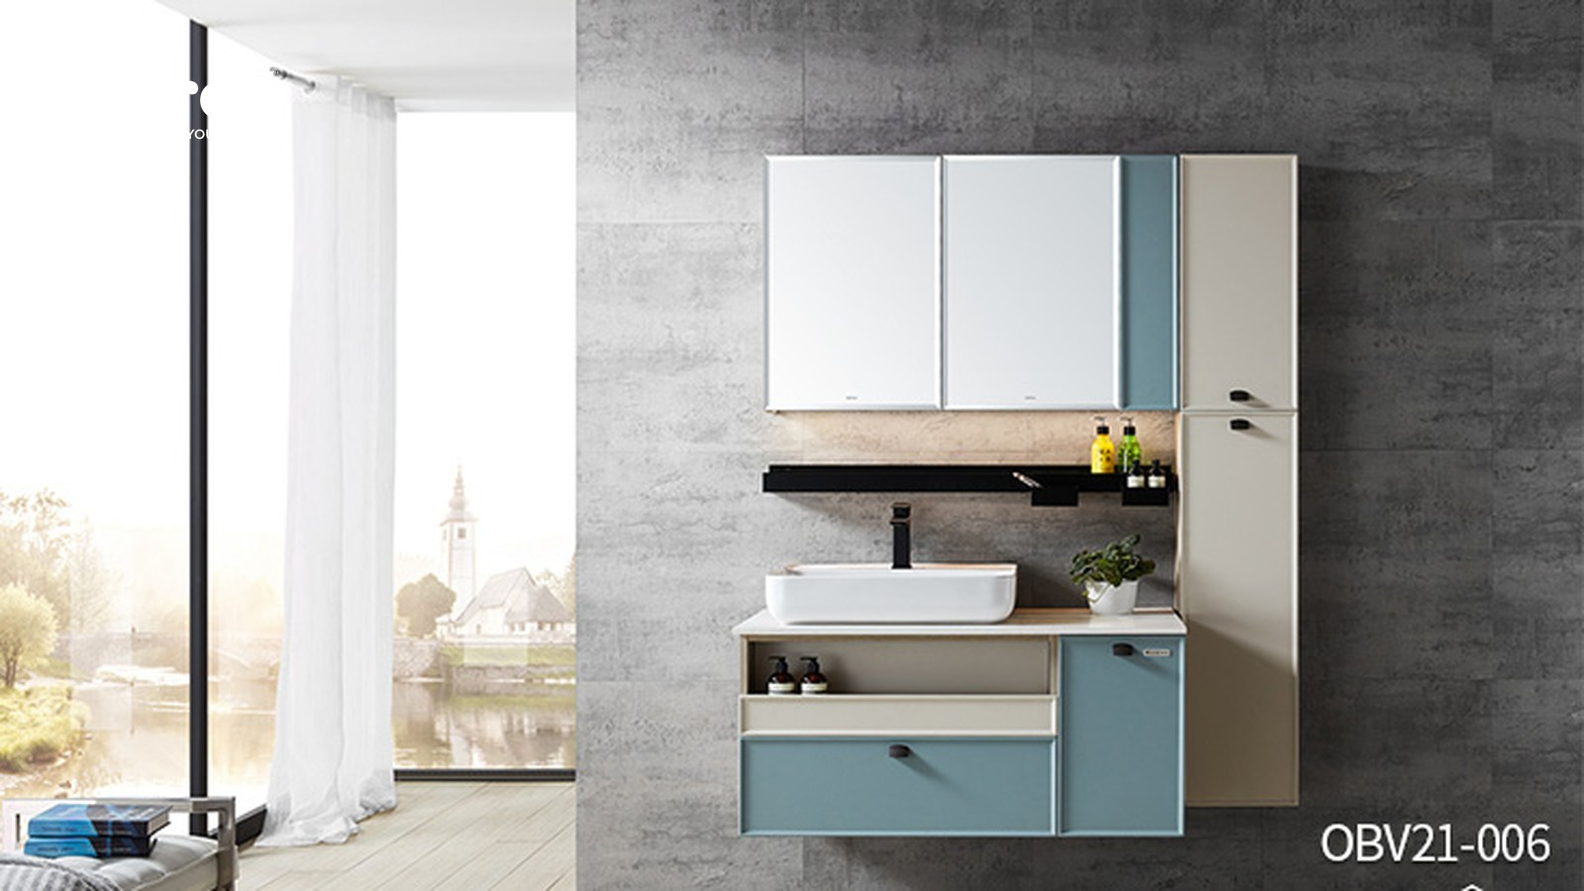
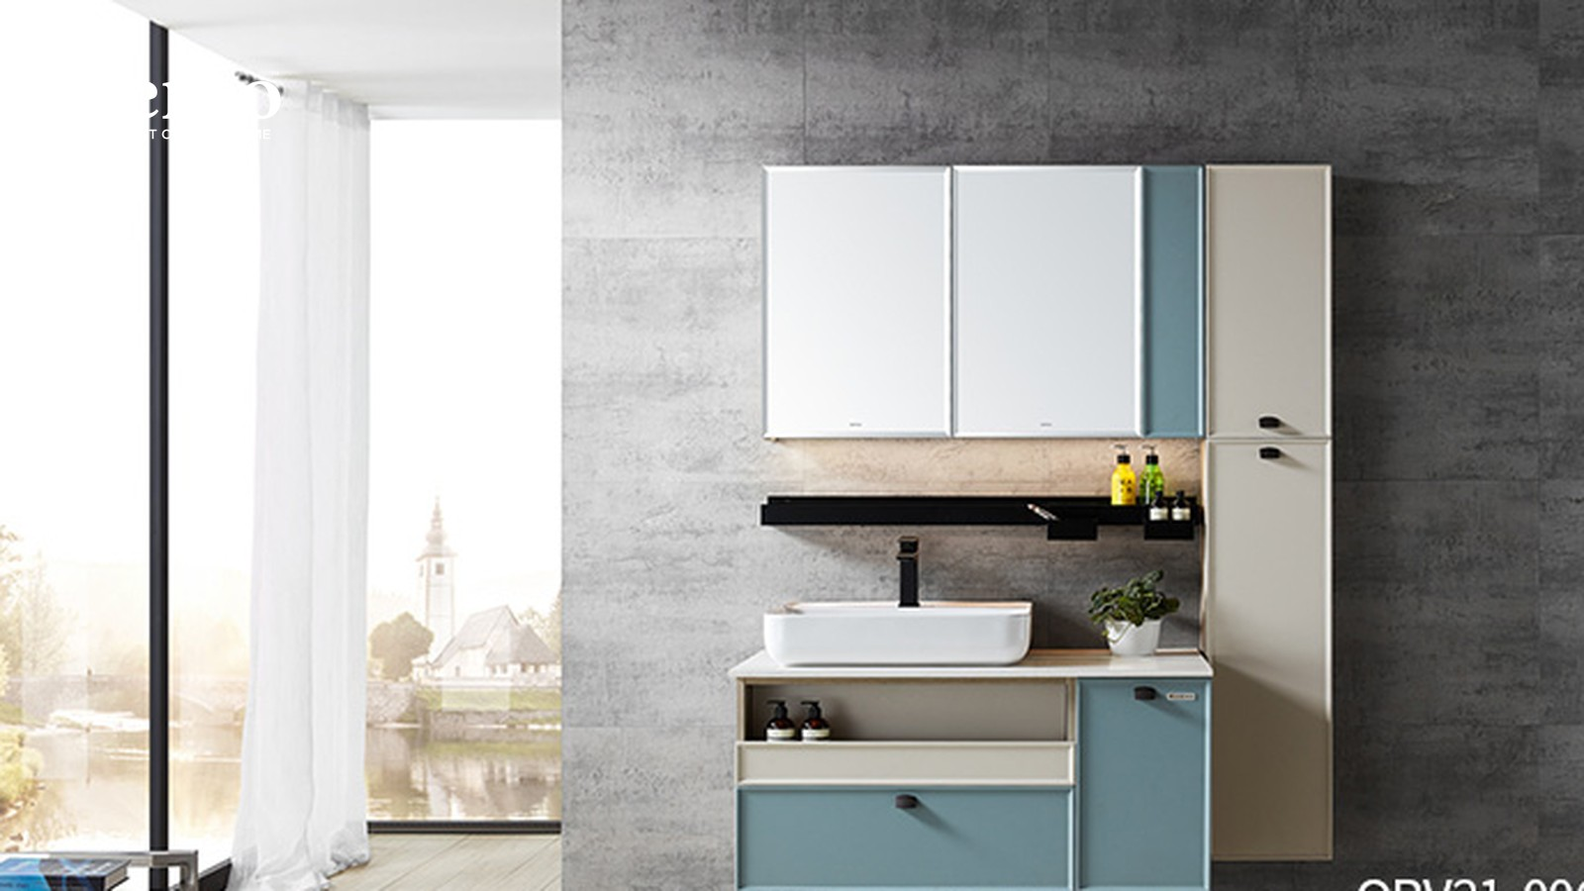
Watermark audit fixes: remove 6 double-stamped angle images, restore 1 missing mark, strip 2 supplier leaks
Full-site audit (341 images, every lockup measured + reviewed by eye) found:
- 6 alternate-angle images were DOUBLE-STAMPED (two overlapping lockups, the second oversized and glowed). Cause: those Oppolia sibling renders already carried a Berco mark and my clean-check missed it. Removed rather than stamped over, per the standard.
- bathroom-marble-vanity-tub had NO watermark at all (live on 21 pages) - re-derived from its clean source and stamped.
- bathroom-wood-mirror-cabinet carried an un-stripped supplier code OBV21-006 - re-derived with a deeper bottom crop.
- teal-vanity -v5 angle had the supplier wordmark legible in the mirror - removed.
Verified after: all 80 remaining angle images carry a single crisp lockup; 0 missing/orphaned refs.

diff --git a/app/collections/data.js b/app/collections/data.js
@@ -73,10 +73,10 @@ export const CATS = {
       { src: 'glass-door-wardrobe-suite-philippines.jpg', alt: 'Bedroom wardrobe run behind reeded-glass sliding doors framed in warm metal — Berco design reference', cap: 'Reeded-glass wardrobe', slug: 'reeded-glass-wardrobe-suite', title: 'Reeded-Glass Wardrobe Suite', blurb: 'A bedroom wardrobe run behind reeded-glass sliding doors, framed in warm metal. The glass softens what sits inside while keeping everything easy to find, and the fronts stay flush to the wall so the room reads calm and uncluttered.' },
       { src: 'open-walk-in-island-modern-philippines.jpg', alt: 'Open walk-in planned around a central drawer island with hanging, shelving and glass-front cabinets on the walls — Berco design reference', cap: 'Open walk-in & island', slug: 'open-walk-in-drawer-island', title: 'Open Walk-In with Drawer Island', blurb: 'An open walk-in planned around a central drawer island, with hanging, shelving and glass-front cabinets running the walls. Everything stays visible and within reach, and the mix of pale cabinetry and darker display bays gives the room depth.' },
       { src: 'grey-marble-dressing-room-philippines.jpg', alt: 'Darker grey dressing room with a marble feature wall, round mirror and a low bench — Berco design reference', cap: 'Grey & marble dressing room', slug: 'grey-dressing-room-marble-feature', title: 'Grey Dressing Room with Marble Feature', blurb: 'A darker dressing room in grey with a marble feature wall and a round mirror. Full-height fronts stay handleless and quiet, and a low bench gives you somewhere to sit while you dress. A calm, grown-up scheme for a main suite.' },
-      { src: 'fitted-wardrobe-wall-mural-philippines.jpg', alt: 'Fitted wardrobe wall in warm neutrals with glass-front bays over a landscape-mural back panel — Berco design reference', cap: 'Fitted wall, display bays', slug: 'fitted-wardrobe-wall-display-bays', title: 'Fitted Wardrobe Wall with Display Bays', blurb: 'A fitted wardrobe wall in warm neutrals, with a run of glass-front bays over a patterned back panel. Open hanging and drawers sit behind glass so the display stays tidy, and integrated light keeps each bay easy to read.', angles: ['fitted-wardrobe-wall-mural-v2-philippines.jpg'] },
-      { src: 'grey-wardrobe-run-dressing-philippines.jpg', alt: 'Long grey wardrobe run with closed fronts and a glass-door hanging section, and a dressing counter at one end — Berco design reference', cap: 'Grey run & dressing', slug: 'grey-wardrobe-run-dressing-end', title: 'Grey Wardrobe Run with Dressing End', blurb: 'A long grey wardrobe run with a mix of closed fronts and a glass-door hanging section, planned wall-to-wall. A dressing counter and mirror sit at one end, and the muted palette keeps a big run of storage feeling quiet.', angles: ['grey-wardrobe-run-dressing-v2-philippines.jpg'] },
-      { src: 'white-walk-in-hanging-philippines.jpg', alt: 'Bright warm-white walk-in with open hanging, shelving and drawers arranged around the room — Berco design reference', cap: 'White walk-in', slug: 'white-walk-in-open-hanging', title: 'White Walk-In with Open Hanging', blurb: 'A bright walk-in in warm white, with open hanging, shelving and drawers arranged around the room. Slim handleless fronts and a soft, even light keep it calm, and a low stool gives you room to dress without crowding the space.', angles: ['white-walk-in-hanging-v2-philippines.jpg'] },
-      { src: 'warm-walk-in-mirror-philippines.jpg', alt: 'Warm-toned walk-in with a full-height mirror and a mix of open and closed storage, doubling as a dressing area — Berco design reference', cap: 'Warm walk-in & mirror', slug: 'warm-walk-in-full-height-mirror', title: 'Warm Walk-In with Full-Height Mirror', blurb: 'A warm-toned walk-in with a full-height mirror and a mix of open and closed storage. Pale cabinetry and a soft rug keep the room gentle, with a bench and desk that let it double as a quiet dressing area.', angles: ['warm-walk-in-mirror-v3-philippines.jpg', 'warm-walk-in-mirror-v4-philippines.jpg', 'warm-walk-in-mirror-v5-philippines.jpg'] },
+      { src: 'fitted-wardrobe-wall-mural-philippines.jpg', alt: 'Fitted wardrobe wall in warm neutrals with glass-front bays over a landscape-mural back panel — Berco design reference', cap: 'Fitted wall, display bays', slug: 'fitted-wardrobe-wall-display-bays', title: 'Fitted Wardrobe Wall with Display Bays', blurb: 'A fitted wardrobe wall in warm neutrals, with a run of glass-front bays over a patterned back panel. Open hanging and drawers sit behind glass so the display stays tidy, and integrated light keeps each bay easy to read.' },
+      { src: 'grey-wardrobe-run-dressing-philippines.jpg', alt: 'Long grey wardrobe run with closed fronts and a glass-door hanging section, and a dressing counter at one end — Berco design reference', cap: 'Grey run & dressing', slug: 'grey-wardrobe-run-dressing-end', title: 'Grey Wardrobe Run with Dressing End', blurb: 'A long grey wardrobe run with a mix of closed fronts and a glass-door hanging section, planned wall-to-wall. A dressing counter and mirror sit at one end, and the muted palette keeps a big run of storage feeling quiet.' },
+      { src: 'white-walk-in-hanging-philippines.jpg', alt: 'Bright warm-white walk-in with open hanging, shelving and drawers arranged around the room — Berco design reference', cap: 'White walk-in', slug: 'white-walk-in-open-hanging', title: 'White Walk-In with Open Hanging', blurb: 'A bright walk-in in warm white, with open hanging, shelving and drawers arranged around the room. Slim handleless fronts and a soft, even light keep it calm, and a low stool gives you room to dress without crowding the space.' },
+      { src: 'warm-walk-in-mirror-philippines.jpg', alt: 'Warm-toned walk-in with a full-height mirror and a mix of open and closed storage, doubling as a dressing area — Berco design reference', cap: 'Warm walk-in & mirror', slug: 'warm-walk-in-full-height-mirror', title: 'Warm Walk-In with Full-Height Mirror', blurb: 'A warm-toned walk-in with a full-height mirror and a mix of open and closed storage. Pale cabinetry and a soft rug keep the room gentle, with a bench and desk that let it double as a quiet dressing area.', angles: ['warm-walk-in-mirror-v3-philippines.jpg', 'warm-walk-in-mirror-v4-philippines.jpg'] },
     ],
   },
   living: {
@@ -140,7 +140,7 @@ export const CATS = {
       { src: 'modern-minimalist-red-and-beige-bedroom-philippines.jpg', alt: 'Bedroom design reference with a terracotta leather headboard facing a corner run of open black display shelving, glass-fronted bays and a fluted dark timber panel — Berco design reference.', cap: 'Display corner', slug: 'terracotta-headboard-with-corner-display-shelving', title: 'Terracotta Headboard, Corner Display Shelving', blurb: 'Storage doubles as display here: open black cubbies, glass-fronted bays, and a slim desk return worked into one corner, framed by a fluted dark timber panel. The terracotta headboard and round bedside keep the sleeping half soft. A reference for bedrooms that need a working corner without letting it read as an office.', angles: ['modern-minimalist-red-and-beige-bedroom-v2-philippines.jpg'] },
       { src: 'monica-green-bedroom-design-philippines.jpg', alt: 'Bedroom design reference where a grid of upholstered cream wall panels sits against a deep green wall, with fluted dark bedside cabinets and a window bench with drawers — Berco design reference.', cap: 'Panelled headboard wall', slug: 'panelled-headboard-wall-in-deep-green', title: 'Panelled Headboard Wall in Deep Green', blurb: 'The headboard wall is the cabinetry: large upholstered panels set in a grid, running past the bed and stopping against a deep green wall. A window bench with drawers picks up storage at the side. A reference for rooms where the wall itself carries the design, with fluted bedside cabinets doing the rest.', angles: ['monica-green-bedroom-design-v2-philippines.jpg'] },
       { src: 'minimalist-white-and-wood-small-bedroom-desi-philippines.jpg', alt: 'Small bedroom design reference with a light oak dressing counter turning the corner beside a mirror, a floating bedside shelf and a wood headboard band — Berco design reference.', cap: 'Corner dressing counter', slug: 'compact-bedroom-with-corner-dressing-counter', title: 'Compact Bedroom With Corner Dressing Counter', blurb: 'A small room planned properly. The dressing counter turns the corner, carries a mirror and a shallow drawer, then stops where the bed begins; a floating shelf takes the other side. Light oak and off-white keep the walls open. A reference for compact bedrooms where every surface has to earn its width.' },
-      { src: 'lanxu-retro-oriental-walnut-and-white-bedroo-philippines.jpg', alt: 'Bedroom design reference with a full-height oak wardrobe run framed by walnut uprights, a slim desk shelf under the window and a tall cream cabinet bank — Berco design reference.', cap: 'Wardrobe run', slug: 'walnut-framed-wardrobe-wall-and-window-desk', title: 'Walnut-Framed Wardrobe Wall and Window Desk', blurb: 'Warm oak panels frame a full-height wardrobe run along one wall, while a slim desk shelf sits under the window and continues into a tall cream cabinet bank. Walnut uprights break the length so it reads as joinery rather than a wall of doors. A reference for long bedrooms that need storage at both ends.', angles: ['lanxu-retro-oriental-walnut-and-white-bedroo-v2-philippines.jpg'] },
+      { src: 'lanxu-retro-oriental-walnut-and-white-bedroo-philippines.jpg', alt: 'Bedroom design reference with a full-height oak wardrobe run framed by walnut uprights, a slim desk shelf under the window and a tall cream cabinet bank — Berco design reference.', cap: 'Wardrobe run', slug: 'walnut-framed-wardrobe-wall-and-window-desk', title: 'Walnut-Framed Wardrobe Wall and Window Desk', blurb: 'Warm oak panels frame a full-height wardrobe run along one wall, while a slim desk shelf sits under the window and continues into a tall cream cabinet bank. Walnut uprights break the length so it reads as joinery rather than a wall of doors. A reference for long bedrooms that need storage at both ends.' },
       { src: 'como-series-modern-beige-and-walnut-bedroom-philippines.jpg', alt: 'Bedroom design reference showing a wide upholstered panel wall behind a dark leather bed, matching stone-topped floating bedsides and a ribbed timber valance above — Berco design reference.', cap: 'Measured symmetry', slug: 'symmetrical-master-panelled-headboard-wall', title: 'Symmetrical Master With Panelled Headboard', blurb: 'Everything here is measured from the centre line: a wide upholstered panel wall behind the bed, matching stone-topped floating bedsides, and a ribbed timber valance washing light down the panels. A cushioned window seat holds the side wall. A reference for master bedrooms where panel joints and reveal lines are set before installation.' },
       { src: 'minimalist-white-small-bedroom-design-ob23-a-philippines.jpg', alt: 'Small bedroom design reference with a white full-height wardrobe opened at one bay for hanging and drawers, floating bedside shelves and a wood slat headboard band — Berco design reference.', cap: 'Floating bedsides', slug: 'small-bedroom-wardrobe-and-floating-bedsides', title: 'Small Bedroom Wardrobe and Floating Bedsides', blurb: 'A white wardrobe run with one bay opened up, hanging space above and drawers below, so daily items stay reachable without a door in the way. Floating bedside shelves keep the floor clear on both sides, and a wood slat band gives the bed its headboard. A reference for small rooms that still need real storage.' },
       { src: 'modern-bedroom-with-home-office-ob23-villa01-philippines.jpg', alt: 'Bedroom design reference with a lit open bookshelf run over closed base cabinets on a raised timber platform, beside a panelled headboard wall and full-height wardrobe — Berco design reference.', cap: 'Library wall', slug: 'bedroom-library-wall-and-study-platform', title: 'Bedroom Library Wall and Study Platform', blurb: 'One wall carries the library: lit open shelves over closed base cabinets, set on a raised timber platform beside the sleeping area. The bed sits against a panelled headboard wall with concealed cove lighting, and a full-height wardrobe closes the corner. A reference for bedrooms asked to hold reading, working and storage in one plan.' },
@@ -173,7 +173,7 @@ export const CATS = {
       { src: 'bathroom-wood-mirror-cabinet-philippines.jpg', alt: 'Bathroom vanity in wood tones with a mirror cabinet and a garden view — Berco design reference', cap: 'Wood & mirror cabinet', slug: 'two-tone-vanity-mirror-cabinet', title: 'Two-Tone Vanity with Mirror Cabinet', blurb: 'A teal-and-cream floating vanity carries a vessel basin below a matching mirror cabinet, with a tall storage unit alongside for extra capacity. A black open shelf adds a spot for daily bottles. Set against a concrete-look wall with a garden view, this reference keeps colour and storage in balance.' },
       { src: 'bathroom-grey-vanity-brass-philippines.jpg', alt: 'Grey wall-mounted vanity with a mirror cabinet and a brass pendant by the window — Berco design reference', cap: 'Grey & brass', slug: 'grey-vanity-brass-pendants', title: 'Grey Vanity with Mirror Cabinet and Brass Pendants', blurb: 'A warm grey floating vanity keeps things simple, with two doors and an integrated basin below a matching mirror cabinet. Brass linear pendants and a garden window add light and warmth. A pared-back reference like this suits smaller bathrooms where clean lines and moisture-ready finishes matter most.' },
       { src: 'bathroom-marble-vanity-tub-mirror-philippines.jpg', alt: 'Bright marble bathroom with a floating vanity, oval mirror and a freestanding tub by the window — Berco design reference', cap: 'Marble, vanity & tub', slug: 'bronze-vanity-oval-mirror-tub', title: 'Bronze Vanity with Oval Mirror and Tub', blurb: 'A bronze floating vanity with a vessel basin and open lower niche sits beneath an oval backlit mirror, framed by pale marble. A reeded glass partition opens to a freestanding tub and garden view. This reference shows how a compact vanity and a bathing zone can share one calm, light-filled space.' },
-      { src: 'wall-hung-vanity-in-teal-blue-modern-style-o-philippines.jpg', alt: 'A slim stone basin ledge with a vessel bowl above a deep teal drawer console, set between a round lit mirror and a slim wall cabinet — Berco design reference.', cap: 'Teal console vanity', slug: 'teal-console-stone-basin-ledge', title: 'Teal Console And Stone Basin Ledge', blurb: 'Two levels share the work here. A slim stone ledge carries the vessel basin and keeps the wash zone visually light, while the teal console below takes the bulk storage a bathroom actually accumulates. The round lit mirror and the slim wall cabinet fill the wall without crowding it. Splitting storage this way is a layout decision, made before anything is built.', angles: ['wall-hung-vanity-in-teal-blue-modern-style-o-v2-philippines.jpg', 'wall-hung-vanity-in-teal-blue-modern-style-o-v3-philippines.jpg', 'wall-hung-vanity-in-teal-blue-modern-style-o-v4-philippines.jpg', 'wall-hung-vanity-in-teal-blue-modern-style-o-v5-philippines.jpg'] },
+      { src: 'wall-hung-vanity-in-teal-blue-modern-style-o-philippines.jpg', alt: 'A slim stone basin ledge with a vessel bowl above a deep teal drawer console, set between a round lit mirror and a slim wall cabinet — Berco design reference.', cap: 'Teal console vanity', slug: 'teal-console-stone-basin-ledge', title: 'Teal Console And Stone Basin Ledge', blurb: 'Two levels share the work here. A slim stone ledge carries the vessel basin and keeps the wash zone visually light, while the teal console below takes the bulk storage a bathroom actually accumulates. The round lit mirror and the slim wall cabinet fill the wall without crowding it. Splitting storage this way is a layout decision, made before anything is built.', angles: ['wall-hung-vanity-in-teal-blue-modern-style-o-v2-philippines.jpg', 'wall-hung-vanity-in-teal-blue-modern-style-o-v3-philippines.jpg', 'wall-hung-vanity-in-teal-blue-modern-style-o-v4-philippines.jpg'] },
       { src: 'modern-bathroom-vanity-with-toilet-cabinets-philippines.jpg', alt: 'A taupe wall-hung vanity with a dark stone top and a lit open niche beneath, under an oval backlit mirror on a marble wall — Berco design reference.', cap: 'Wall-hung, lit niche', slug: 'taupe-wall-hung-vanity-lit-niche', title: 'Taupe Wall-Hung Vanity With Lit Niche', blurb: 'The vanity hangs clear of the floor, so the tiling runs through underneath and the room reads wider. Closed drawers keep the clutter out of sight, and the lit niche below holds the bottles and towels reached for every day. A dark stone top grounds the pale wall; the oval mirror keeps the lines soft.', angles: ['modern-bathroom-vanity-with-toilet-cabinets-v2-philippines.jpg', 'modern-bathroom-vanity-with-toilet-cabinets-v3-philippines.jpg', 'modern-bathroom-vanity-with-toilet-cabinets-v4-philippines.jpg'] },
       { src: 'scale-pattern-brown-bathroom-vanity-blwy2300-philippines.jpg', alt: 'A dark textured wall-hung vanity with copper handle rails and a marble-look top, paired with grey wall cabinets and open shelving — Berco design reference.', cap: 'Texture and copper', slug: 'textured-brown-vanity-copper-rails', title: 'Textured Brown Vanity With Copper Rails', blurb: 'Texture carries this one. The patterned brown fronts catch light where a flat finish would go dead, and slim copper rails run the full width in place of handles. Above the basin, closed doors and open shelves are split deliberately, so daily items stay reachable and the rest stays behind a door.', angles: ['scale-pattern-brown-bathroom-vanity-blwy2300-v2-philippines.jpg', 'scale-pattern-brown-bathroom-vanity-blwy2300-v3-philippines.jpg'] },
       { src: 'urban-style-white-and-black-bathroom-cabinet-philippines.jpg', alt: 'A white framed-panel vanity with a black stone top and black knobs, beside a tall lit open shelving column in a marble bathroom — Berco design reference.', cap: 'Shaker and stone', slug: 'white-shaker-vanity-black-stone-top', title: 'White Shaker Vanity, Black Stone Top', blurb: 'Framed fronts and small black knobs give a classic line, and the black stone top draws a firm edge against pale marble walls. Beside the mirror, the lit shelving column uses the full height of a narrow wall. Tall storage like that has to be planned before tiling and lighting are set out.', angles: ['urban-style-white-and-black-bathroom-cabinet-v2-philippines.jpg', 'urban-style-white-and-black-bathroom-cabinet-v3-philippines.jpg'] },
@@ -210,7 +210,7 @@ export const CATS = {
       { src: 'dining-wine-display-wall-philippines.jpg', alt: 'Dining room with an illuminated built-in wine-display wall — Berco design reference', cap: 'Display & wine', slug: 'dining-illuminated-wine-wall', title: 'Dining with Illuminated Built-In Wine Wall', blurb: 'A dark cabinet wall built around a lit wine rack, with bottles laid on angled racks and closed storage running the full height beside it. The backlighting turns the collection into the focal point of the dining area. A marble-topped table and upholstered chairs sit close, so the wine is part of the meal, not a separate room.' },
       { src: 'como-series-semi-open-kitchen-with-dining-ar-philippines.jpg', alt: 'Dining table running off the end of a dark stone-topped island with a warm metal side panel, with tall storage columns and a glazed partition to the kitchen behind — Berco design reference.', cap: 'Table off the island', slug: 'island-anchored-dining-table', title: 'Dining Table Anchored To The Island', blurb: 'The table runs straight off the island end, so prep and serving share one line. The island carries a dark stone top with a warm metal side panel and a lit underside, and the tall storage columns behind hold the built-in ovens plus everything that used to sit on the counter. A glazed sliding partition keeps the cooking side separate without closing it off.' },
       { src: 'modern-dining-room-cabinets-and-table-3-ob23-philippines.jpg', alt: 'Dark timber dining counter extending from a stone-topped island with a reeded terracotta base, set against a floor-to-ceiling run of cream cabinet fronts — Berco design reference.', cap: 'Cream tall cabinets', slug: 'tall-cabinet-wall-with-dining-counter', title: 'Tall Cabinet Wall With Dining Counter', blurb: 'A dark timber dining counter extends off a stone-topped island with a reeded terracotta base — one surface to eat at, one to serve from. Behind it, a floor-to-ceiling run of cream fronts absorbs the bulk of the storage, broken by a single lit niche for books and vases. The fluted glass screen at the end filters light without blocking it.' },
-      { src: 'lanxu-retro-oriental-dining-area-with-a-waln-philippines.jpg', alt: 'Dining table set in front of a walnut display wall with bronze-framed textured glass doors, lit shelves of ceramics and an open shelving grid — Berco design reference.', cap: 'Lit display wall', slug: 'walnut-and-glass-display-wall', title: 'Walnut And Glass Display Wall', blurb: 'Dining set against a display wall rather than a blank one. Bronze-framed doors in textured glass hold ceramics under shelf lighting, and the open walnut grid beside them carries larger pieces with room to breathe. Doors keep dust off what you use rarely; open bays stay for what you reach for. Deciding which is which comes before the drawing.', angles: ['lanxu-retro-oriental-dining-area-with-a-waln-v2-philippines.jpg'] },
+      { src: 'lanxu-retro-oriental-dining-area-with-a-waln-philippines.jpg', alt: 'Dining table set in front of a walnut display wall with bronze-framed textured glass doors, lit shelves of ceramics and an open shelving grid — Berco design reference.', cap: 'Lit display wall', slug: 'walnut-and-glass-display-wall', title: 'Walnut And Glass Display Wall', blurb: 'Dining set against a display wall rather than a blank one. Bronze-framed doors in textured glass hold ceramics under shelf lighting, and the open walnut grid beside them carries larger pieces with room to breathe. Doors keep dust off what you use rarely; open bays stay for what you reach for. Deciding which is which comes before the drawing.' },
       { src: 'small-kitchen-and-dining-table-in-minimalist-philippines.jpg', alt: 'Small apartment layout with a dining table joined to a beige island holding a black sink, and an enclosed light-oak kitchen behind a glazed door — Berco design reference.', cap: 'Island meets table', slug: 'compact-island-with-dining-extension', title: 'Compact Island With Dining Extension', blurb: 'A small plan handled honestly. The table joins the end of the island, so one run of cabinetry serves both prep and meals, and the glazed door closes off the cooking side when needed. Light oak fronts inside, a quieter beige outside — same layout logic, two finishes. Compact spaces reward planning the walking path before anything else is chosen.' },
       { src: 'dining-table-in-minimalist-apartment-design-philippines.jpg', alt: 'Dining table off a beige island beside a tall cream cabinet run with a lit glass-front section holding bottles and glassware — Berco design reference.', cap: 'Drinks display', slug: 'glass-front-drinks-display-cabinet', title: 'Glass-Front Drinks Display Cabinet', blurb: 'Beside the table, a tall run stays flush and closed except for one section: a glass-front cabinet with lit shelves for bottles and glassware, set against a patterned back panel. Closed doors below take the bulk storage. Hosting gets easier when the drinks live where people actually gather, not across the room in the kitchen.' },
       { src: 'huaqi-semi-open-matte-black-and-gold-kitchen-philippines.jpg', alt: 'Round dining table framed by a low reeded tan sideboard against dark panelling and a tall unit with a glass-front upper cabinet, with the kitchen behind a framed opening — Berco design reference.', cap: 'Sideboard and glass', slug: 'dark-panels-with-tan-sideboard', title: 'Dark Panels With Tan Sideboard', blurb: 'Dining framed by three storage moves: a low reeded sideboard against the dark panelled wall, a tall unit with a glass-front upper cabinet, and an open middle bay above a caramel drawer run. The kitchen sits behind a framed opening, part of the room without becoming the view. Warm timber fronts keep the darker panels from feeling heavy.' },
